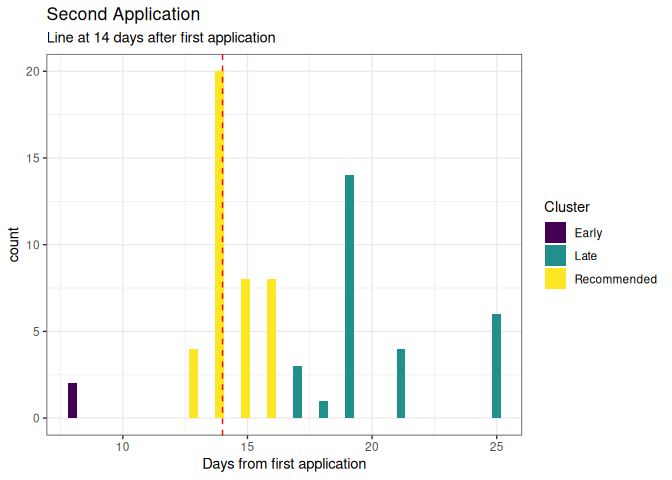
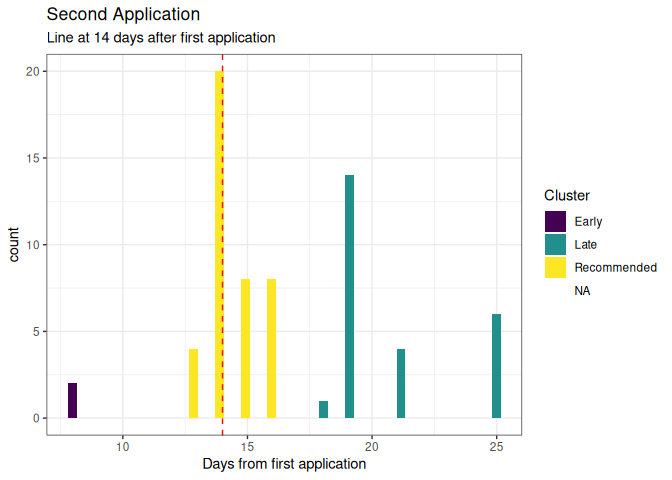
Fixes control being assigned to "Late" clusters

Changed region(s): [[0.8125, 0.375, 1.0, 0.625], [0.4375, 0.75, 0.4688, 0.875]]

diff --git a/Cluster Timing/MB_PM_data.md b/Cluster Timing/MB_PM_data.md
@@ -150,7 +150,7 @@ mb <-
       fungicide_timing_1 < 0 ~ "Early",
       fungicide_timing_1 >= 0 &
         fungicide_timing_1 < 4 ~ "Recommended",
-      TRUE ~ "Late"
+      fungicide_timing_1 > 4 ~ "Late"
     )
   ) %>%
   mutate(
@@ -158,13 +158,13 @@ mb <-
       fungicide_timing_2 < 13 ~ "Early",
       fungicide_timing_2 >= 13 &
         fungicide_timing_2 < 17 ~ "Recommended",
-      TRUE ~ "Late"
+      fungicide_timing_2 > 17 ~ "Late"
     )
   ) %>% 
   mutate(
     cluster_3 = case_when(
       fungicide_timing_3 < 14 ~ "Early",
-      TRUE ~ "Recommended"
+      fungicide_timing_3 == 14 ~ "Recommended"
     )
   )
 ```
